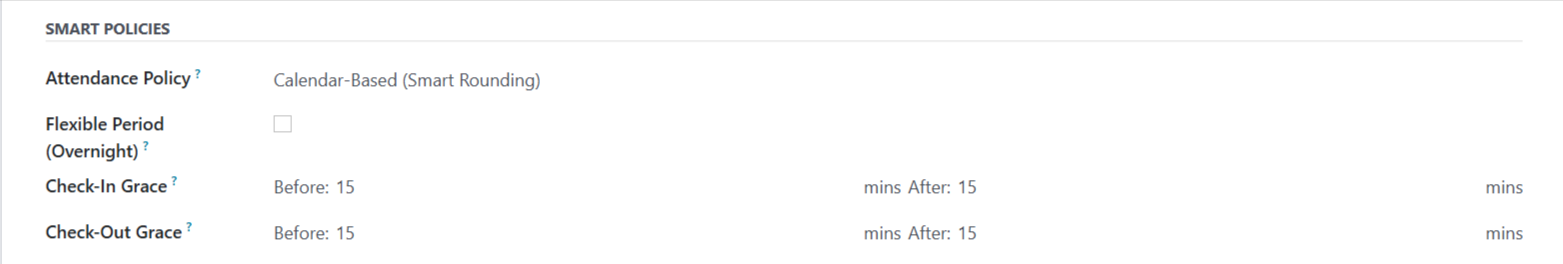
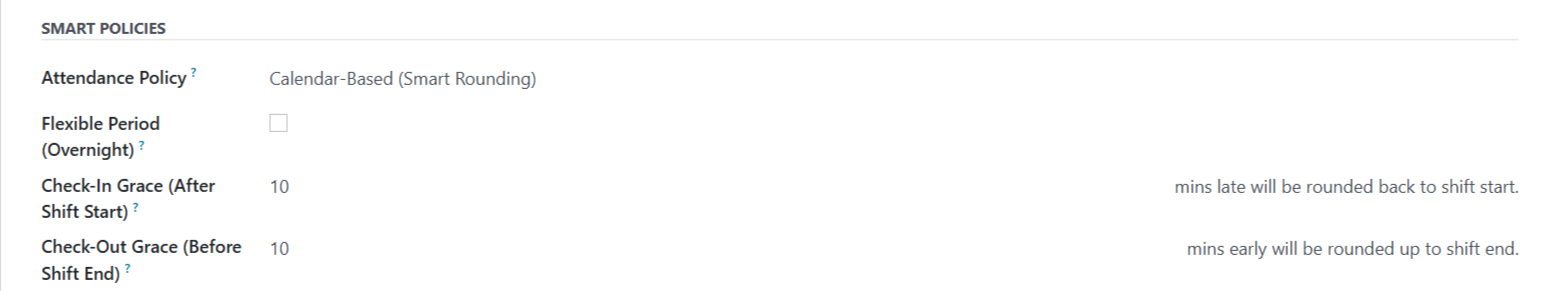
migration complete

diff --git a/cr_zkteco_biometric_integration/static/description/index.html b/cr_zkteco_biometric_integration/static/description/index.html
@@ -695,6 +695,20 @@
                     <div class="col-12 col-md-12">
                         <ul style="font-size: 22px;">
                             <li>
+                                Go to <b>Settings</b> >> <b>Users &amp; Companies</b> >> <b>Users</b> and open the user to whom you want to grant access for synchronizing biometric User data with devices.
+                            </li>
+                            <img src="images/users.png" alt="" class="img img-fluid shadow-lg mx-auto mt-4 mb-5"
+                                    loading="lazy"
+                                    style="border: 1px solid rgb(242, 238, 247); border-radius: 11px;"/>
+                            <li>
+                                There turn on the <b>Can Edit Biometric Data</b> option and save the user record. This will allow the user to synchronize user data between Odoo and the devices.
+                            </li>
+                            <img src="images/admin access rights.png" alt="" class="img img-fluid shadow-lg mx-auto mt-4 mb-5"
+                                    loading="lazy"
+                                    style="border: 1px solid rgb(242, 238, 247); border-radius: 11px;"/>
+                        </ul>
+                        <ul style="font-size: 22px;">
+                            <li>
                                 Go to <b>Attendances</b> >> <b>Biometric Configuration</b> >> <b>Devices</b> to view and manage all connected biometric devices in one place.
                             </li>
                             <img src="images/device menu.png" alt="" class="img img-fluid shadow-lg mx-auto mt-4 mb-5"
@@ -848,7 +862,7 @@
                                     loading="lazy"
                                     style="border: 1px solid rgb(242, 238, 247); border-radius: 11px;"/>
                             <li>
-                                You can configure <b>Check-In Grace Before/After</b> and <b>Check-Out Grace Before/After</b> in minutes. For example, if an employee checks in 10 minutes late and the allowed grace period after check-in is 10 minutes, it will still be counted as on-time. Similarly, if an employee checks out 10 minutes early and the allowed grace period before check-out is 10 minutes, it will also be treated as an on-time checkout.
+                                You can configure <b>Check-In Grace</b> and <b>Check-Out Grace</b> in minutes. For example, if an employee checks in 10 minutes late and the allowed grace period for check-in is 10 minutes, it will still be counted as on-time. Similarly, if an employee checks out 10 minutes early and the allowed grace period for check-out is 10 minutes, it will also be treated as an on-time checkout.
                             </li>
                         </ul>
 

diff --git a/cr_zkteco_biometric_integration/models/hr_employee_extend.py b/cr_zkteco_biometric_integration/models/hr_employee_extend.py
@@ -52,6 +52,27 @@ class HrEmployeeExtend(models.Model):
         ),
     ]
 
+    def _ensure_device_user_id(self):
+        """
+        Ensures that every employee in this recordset has a unique, numeric device_user_id.
+        If an employee does not have one, it will auto-generate and write it.
+        """
+        all_pins = self.env["hr.employee"].sudo().search([("device_user_id", "!=", False)]).mapped("device_user_id")
+        numeric_pins = []
+        for pin in all_pins:
+            try:
+                numeric_pins.append(int(pin))
+            except ValueError:
+                continue
+
+        max_pin = max(numeric_pins) if numeric_pins else 9999
+        next_pin = max(max_pin + 1, 10000)
+
+        for employee in self:
+            if not employee.device_user_id:
+                employee.sudo().write({"device_user_id": str(next_pin)})
+                next_pin += 1
+
     def action_sync_to_devices(self, device_ids=None):
         self.ensure_one()
         if not self.device_user_id:
@@ -476,28 +497,35 @@ class HrEmployeeExtend(models.Model):
                     local_dt - shift_start_local
                 ).total_seconds() / 60.0  # Positive if late
 
-                if 0 <= diff_early <= device.grace_start_in:
-                    # Early check-in within grace -> round UP to shift start (return as UTC)
-                    return shift_start_local.astimezone(pytz.utc).replace(tzinfo=None)
                 if 0 <= diff_late <= device.grace_end_in:
-                    # Late check-in within grace -> round DOWN to shift start (return as UTC)
-                    return shift_start_local.astimezone(pytz.utc).replace(tzinfo=None)
+                    # Rounding Goal: Shift Start (Only if LATE within grace)
+                    rounded_utc = shift_start_local.astimezone(pytz.utc).replace(tzinfo=None)
+                    
+                    # Check if the employee ALREADY has a record starting at this exact rounded time.
+                    existing_count = self.env['hr.attendance'].sudo().search_count([
+                        ('employee_id', '=', self.id),
+                        ('check_in', '=', rounded_utc)
+                    ])
+                    if not existing_count:
+                        return rounded_utc
 
             elif punch_type == "out":
                 # Check-Out Grace
                 diff_early = (
                     shift_end_local - local_dt
                 ).total_seconds() / 60.0  # Positive if early
-                diff_late = (
-                    local_dt - shift_end_local
-                ).total_seconds() / 60.0  # Positive if late
 
                 if 0 <= diff_early <= device.grace_start_out:
-                    # Early check-out within grace -> round UP to shift end (return as UTC)
-                    return shift_end_local.astimezone(pytz.utc).replace(tzinfo=None)
-                if 0 <= diff_late <= device.grace_end_out:
-                    # Late check-late within grace -> round DOWN to shift end (return as UTC)
-                    return shift_end_local.astimezone(pytz.utc).replace(tzinfo=None)
+                    # Rounding Goal: Shift End (Only if EARLY within grace)
+                    rounded_utc = shift_end_local.astimezone(pytz.utc).replace(tzinfo=None)
+                    
+                    # Check if the employee ALREADY has a record ending at this exact rounded time.
+                    existing_count = self.env['hr.attendance'].sudo().search_count([
+                        ('employee_id', '=', self.id),
+                        ('check_out', '=', rounded_utc)
+                    ])
+                    if not existing_count:
+                        return rounded_utc
 
         return utc_dt
 

diff --git a/cr_zkteco_biometric_integration/models/res_users.py b/cr_zkteco_biometric_integration/models/res_users.py
@@ -1,0 +1,33 @@
+# -*- coding: utf-8 -*-
+# Part of Creyox Technologies.
+from odoo import models, fields, api
+
+class ResUsers(models.Model):
+    _inherit = 'res.users'
+
+    can_edit_biometric_data = fields.Boolean(
+        string="Can Edit Biometric Data",
+        help="If enabled, this user can edit, delete and fetch biometric data.",
+        compute="_compute_can_edit_biometric_data",
+        inverse="_inverse_can_edit_biometric_data",
+        store=True,
+    )
+
+    @api.depends('groups_id')
+    def _compute_can_edit_biometric_data(self):
+        group = self.env.ref('cr_zkteco_biometric_integration.group_biometric_editor', raise_if_not_found=False)
+        for user in self:
+            if group:
+                user.can_edit_biometric_data = group in user.groups_id
+            else:
+                user.can_edit_biometric_data = False
+
+    def _inverse_can_edit_biometric_data(self):
+        group = self.env.ref('cr_zkteco_biometric_integration.group_biometric_editor', raise_if_not_found=False)
+        if not group:
+            return
+        for user in self:
+            if user.can_edit_biometric_data:
+                user.groups_id = [(4, group.id)]
+            else:
+                user.groups_id = [(3, group.id)]

diff --git a/cr_zkteco_biometric_integration/models/biometric_device_config.py b/cr_zkteco_biometric_integration/models/biometric_device_config.py
@@ -234,11 +234,6 @@ class BiometricDevice(models.Model):
         "This is recommended for night shifts but can be disabled to improve performance.",
     )
 
-    grace_start_in = fields.Integer(
-        string="Grace Start-In (Mins)",
-        default=15,
-        help="Round up to shift start if check-in is X mins early.",
-    )
     grace_end_in = fields.Integer(
         string="Grace End-In (Mins)",
         default=15,
@@ -248,11 +243,6 @@ class BiometricDevice(models.Model):
         string="Grace Start-Out (Mins)",
         default=15,
         help="Round up to shift end if check-out is X mins early.",
-    )
-    grace_end_out = fields.Integer(
-        string="Grace End-Out (Mins)",
-        default=15,
-        help="Round down to shift end if check-out is X mins late.",
     )
 
     # -------------------------------------------------------------------------
@@ -351,12 +341,11 @@ class BiometricDevice(models.Model):
 
     def action_export_all_users(self):
         """
-        Push all employees with a Biometric User ID to this device.
+        Push all active employees to this device, auto-generating unique biometric IDs if missing.
         """
         self.ensure_one()
-        employees = (
-            self.env["hr.employee"].sudo().search([("device_user_id", "!=", False)])
-        )
+        employees = self.env["hr.employee"].sudo().search([])
+        employees._ensure_device_user_id()
 
         for emp in employees:
             emp._generate_sync_commands(self)

diff --git a/cr_zkteco_biometric_integration/__manifest__.py b/cr_zkteco_biometric_integration/__manifest__.py
@@ -75,6 +75,7 @@
     """,
     "depends": ["base", "mail", "hr_attendance"],
     "data": [
+        "security/security.xml",
         "security/ir.model.access.csv",
         "data/ir_cron.xml",
         "views/biometric_device_config.xml",
@@ -82,6 +83,7 @@
         "views/hr_employee.xml",
         "views/biometric_dashboard_view.xml",
         "views/menu.xml",
+        "views/res_users_view.xml",
         "wizard/biometric_enroll_wizard_view.xml",
         "wizard/biometric_user_transfer_wizard_view.xml",
         "wizard/biometric_attendance_report_wizard_view.xml",

diff --git a/cr_zkteco_biometric_integration/models/__init__.py b/cr_zkteco_biometric_integration/models/__init__.py
@@ -8,3 +8,4 @@ from . import biometric_dashboard
 from . import biometric_device_command
 from . import biometric_user_template
 from . import hr_attendance_extend
+from . import res_users

diff --git a/cr_zkteco_biometric_integration/models/biometric_dashboard.py b/cr_zkteco_biometric_integration/models/biometric_dashboard.py
@@ -1,4 +1,5 @@
 # -*- coding: utf-8 -*-
+# Part of Creyox Technologies.
 from odoo import models, api, fields, _
 from datetime import datetime, date, timedelta
 import pytz

diff --git a/cr_zkteco_biometric_integration/wizard/absence_report_wizard.py b/cr_zkteco_biometric_integration/wizard/absence_report_wizard.py
@@ -1,4 +1,5 @@
 # -*- coding: utf-8 -*-
+# Part of Creyox Technologies.
 from odoo import models, fields, api, _
 from datetime import datetime, time, timedelta
 import pytz

diff --git a/cr_zkteco_biometric_integration/wizard/calculate_attendance_wizard.py b/cr_zkteco_biometric_integration/wizard/calculate_attendance_wizard.py
@@ -1,4 +1,5 @@
 # -*- coding: utf-8 -*-
+# Part of Creyox Technologies.
 from odoo import models, fields, api, _
 from datetime import datetime, time
 import pytz

diff --git a/cr_zkteco_biometric_integration/wizard/daily_attendance_report_wizard.py b/cr_zkteco_biometric_integration/wizard/daily_attendance_report_wizard.py
@@ -1,4 +1,5 @@
 # -*- coding: utf-8 -*-
+# Part of Creyox Technologies.
 from odoo import models, fields, api, _
 from datetime import datetime, time
 import pytz

diff --git a/cr_zkteco_biometric_integration/wizard/daily_summary_report_wizard.py b/cr_zkteco_biometric_integration/wizard/daily_summary_report_wizard.py
@@ -1,4 +1,5 @@
 # -*- coding: utf-8 -*-
+# Part of Creyox Technologies.
 from odoo import models, fields, api, _
 from datetime import datetime, time
 import pytz

diff --git a/cr_zkteco_biometric_integration/doc/changelog.rst b/cr_zkteco_biometric_integration/doc/changelog.rst
@@ -1,3 +1,3 @@
-17.0.0.0(Date: 15th May, 2026)
+17.0.0.0(Date: 20th May, 2026)
 -------------------------------
 - Migrating module